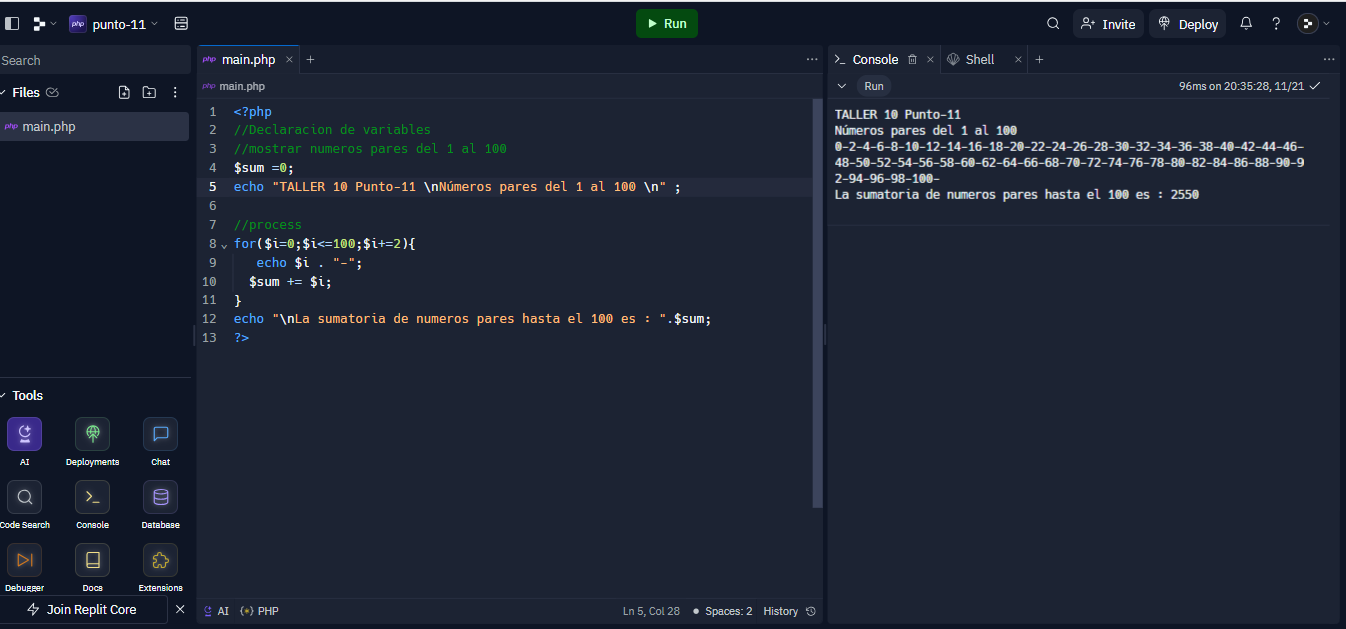
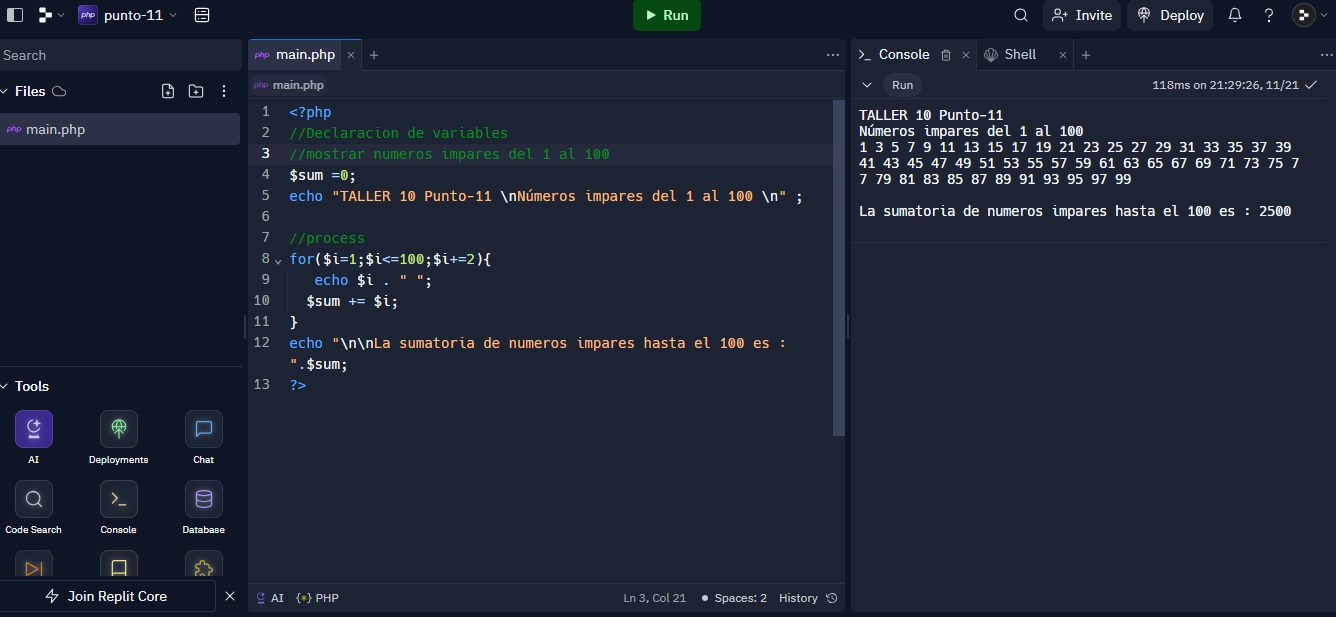
Act Punto-11

diff --git a/punto-11/index.php b/punto-11/index.php
@@ -1,13 +1,13 @@
 <?php
 //Declaracion de variables
-//mostrar numeros pares del 1 al 100
+//mostrar numeros impares del 1 al 100
 $sum =0;
-echo "TALLER 10 Punto-11 \nNúmeros pares del 1 al 100 \n" ;
+echo "TALLER 10 Punto-11 \nNúmeros impares del 1 al 100 \n" ;
 
 //process
-for($i=0;$i<=100;$i+=2){
-   echo $i . "-";
+for($i=1;$i<=100;$i+=2){
+   echo $i . " ";
   $sum += $i;
 }
-echo "\nLa sumatoria de numeros pares hasta el 100 es : ".$sum;
+echo "\n\nLa sumatoria de numeros impares hasta el 100 es : ".$sum;
 ?>
